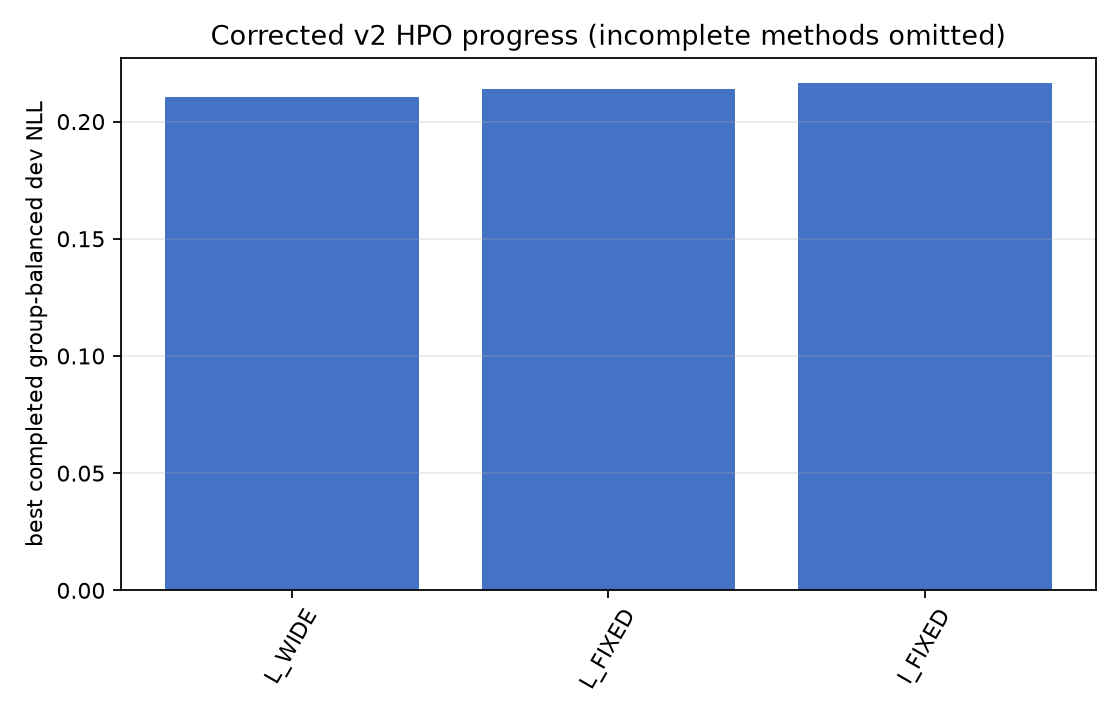
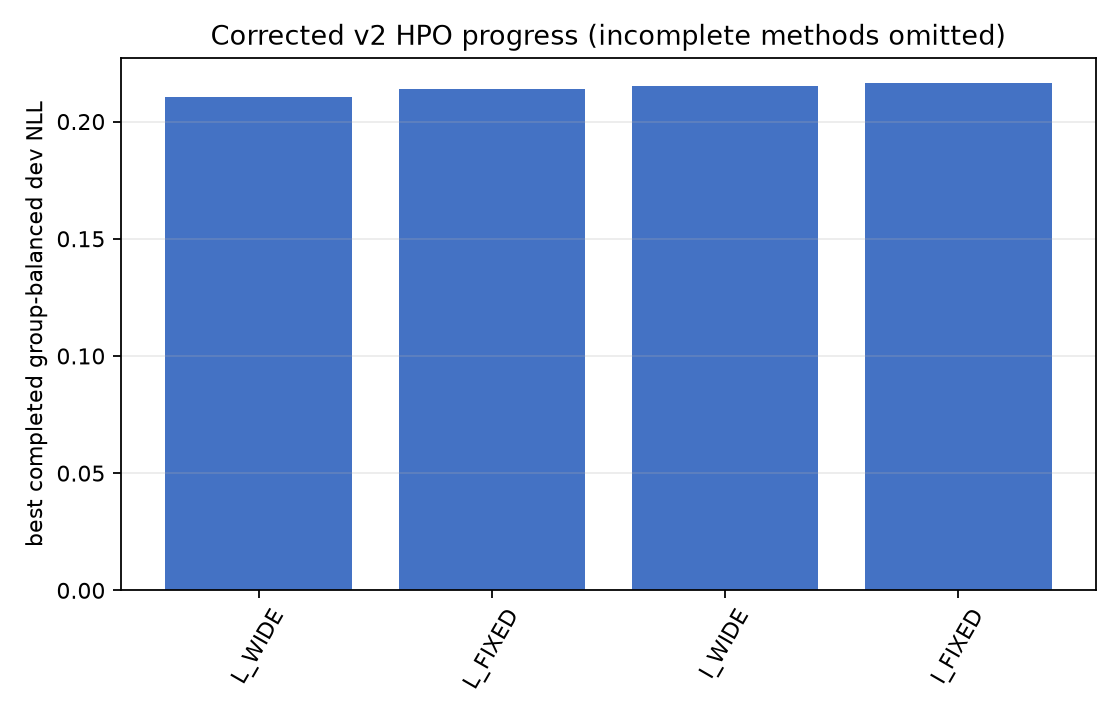
checkpoint corrected hpo coverage at 47 trials

diff --git a/reports/progress.md b/reports/progress.md
@@ -9,7 +9,7 @@ Updated 2026-10-14 UTC.
 - Real GPU smoke: standard L, centered I, T0 triplet, online RAW, and faithful AdaLoRA completed.
 - Faithful AdaLoRA now uses A/B Normal(0, 0.02), zero E, fixed `ranknum + 1e-5`, element-score/uncertainty allocation, and separate reference metadata.
 - All earlier native screens under `/var/tmp/dora-adaptive-rank/runs/hpo_native2`, `/var/tmp/dora-adaptive-rank/runs/hpo_corrected`, `/var/tmp/dora-adaptive-rank/runs/hpo_final`, and `/var/tmp/dora-adaptive-rank/runs/hpo_accepted_final2` are withdrawn from selection because they use the superseded v1 data seal; they remain preserved with the audit in `reports/protocol_invalid.md`.
-- Corrected v2 native HPO is live under `/var/tmp/dora-adaptive-rank/runs/hpo_v2_seed1001`: 36/348 trials have terminal metadata and four workers are currently active. The best completed values are `L_FIXED` dev NLL 0.213907 (LR 1e-3, scale 4), `I_FIXED` 0.216248 (LR 1e-4, scale 4), and `L_WIDE` 0.210417 (LR 1e-3, scale 4); these are one-seed HPO screening values only. The live machine-readable matrix is [`reports/hpo_v2_live.csv`](hpo_v2_live.csv), and the refreshed coverage checkpoint records 36 complete / 923 pending runs.
+- Corrected v2 native HPO is live under `/var/tmp/dora-adaptive-rank/runs/hpo_v2_seed1001`: 47/348 trials have terminal metadata and four workers are currently active. The best completed values are `L_FIXED` dev NLL 0.213907 (LR 1e-3, scale 4), `I_FIXED` 0.216248 (LR 1e-4, scale 4), and `L_WIDE` 0.210417 (LR 1e-3, scale 4); these are one-seed HPO screening values only. The live machine-readable matrix is [`reports/hpo_v2_live.csv`](hpo_v2_live.csv), and the refreshed coverage checkpoint records 47 complete / 912 pending runs.
 - The frozen-matrix Stage A control completed 16 CPU runs across two seeds, both initializations, isotropic/anisotropic inputs, noisy/clean targets, and slot budgets 8/16/32. Its immutable output is [`artifacts/synthetic_controls_v2.json`](../artifacts/synthetic_controls_v2.json); these mechanistic errors are not LLM quality measurements.
 - The HPO crossed six bookkeeping-only source commits. [`artifacts/v2_provenance_audit.json`](../artifacts/v2_provenance_audit.json) hashes the native training executable and adapter/data/allocator files at every recorded revision; all common training-file hashes are identical.
 - `scripts/continue_adaptive_v2.sh` is a resumable supervisor that waits for corrected HPO, then launches corrected full-horizon tuning, fresh screening, pipeline HPO, and pipeline tuning. No later stage is counted until its immutable run records exist.
